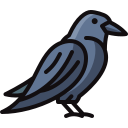
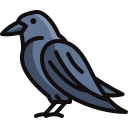
Spooky morning colors

diff --git a/src/main.js b/src/main.js
@@ -69,7 +69,7 @@ async function setAutostart(enable) {
 }
 
 /* Theme Setup */
-let themes = {
+const defaultThemes = {
   'morning': {
     'color-background-1': 'hsl(193, 69%, 88%)',
     'color-background-2': 'hsl(27, 71%, 73%)',
@@ -108,15 +108,15 @@ let themes = {
     'color-button-text': 'hsl(0, 0%, 1%)',
   },
 };
-themes = {
+const spookyThemes = {
   'morning': {
-    'color-background-1': 'hsl(193, 69%, 88%)',
-    'color-background-2': 'hsl(27, 71%, 73%)',
-    'color-background-3': 'hsl(48, 100%, 87%)',
+    'color-background-1': 'hsl(150, 46%, 95%)',
+    'color-background-2': 'hsl(28, 71%, 81%)',
+    'color-background-3': 'hsl(47, 71%, 84%)',
     'color-text': 'hsl(0, 0%, 9%)',
-    'color-shadow': 'hsl(48, 100%, 87%)',
+    'color-shadow': 'hsl(47, 71%, 84%)',
     'color-icon-button': 'hsl(0, 0%, 9%)',
-    'color-button': 'hsl(48, 100%, 87%)',
+    'color-button': 'hsl(47, 71%, 84%)',
     'color-button-text': 'hsl(0, 0%, 1%)',
   },
   'afternoon': {
@@ -147,6 +147,8 @@ themes = {
     'color-button-text': '#1f2113',
   },
 }
+
+const themes = spookyThemes;
 
 const stars = document.getElementById('stars');
 function createStars() {
@@ -208,8 +210,9 @@ const setTheme = () => {
   if (topIcon && bottomIcon) {
     switch(theme) {
       case 'morning':
-        topIcon.src = './assets/ghost.png';
-        bottomIcon.src = './assets/raven.png';
+        topIcon.src = './assets/raven.png';
+        topIcon.style.margin = '2px';
+        bottomIcon.src = './assets/ghost.png';
         break;
       case 'afternoon':
         topIcon.src = './assets/bats.png';
@@ -218,7 +221,6 @@ const setTheme = () => {
       case 'evening':
         topIcon.src = './assets/pumpkin.png';
         bottomIcon.src = './assets/cat.png';
-        bottomIcon.style.margin = '2px';
         break;
       case 'night':
         topIcon.src = './assets/moon-bats.png';

diff --git a/src/about.html b/src/about.html
@@ -25,7 +25,7 @@
       </p>
       <br />
       <p>
-        - Kavish (<a href="https://github.com/kabbagepatch">Github</a>)
+        - Kavish (<a href="https://github.com/kabbagepatch" target="_blank">Github</a>)
       </p>
       <div id="stars" style="opacity: 0.4;"></div>
       <button class="icon-button bottom-buttons" id="back-button">

diff --git a/src/styles.css b/src/styles.css
@@ -312,7 +312,8 @@ input.radio {
 }
 
 #about p a {
-  color: var(--color-button)
+  color: var(--color-button);
+  text-shadow: 1px 1px 2px var(--color-text);
 }
 
 #multitask-container {
